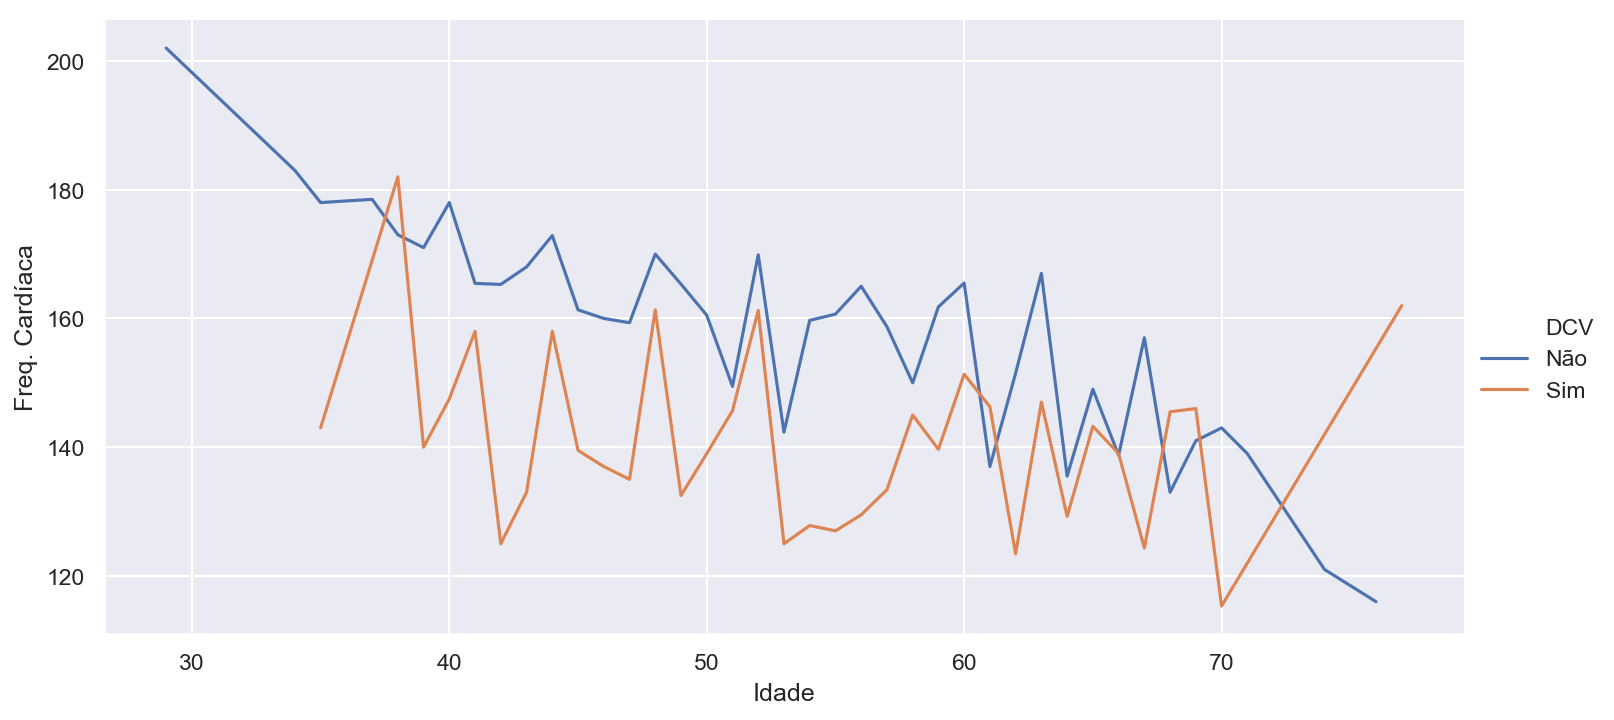
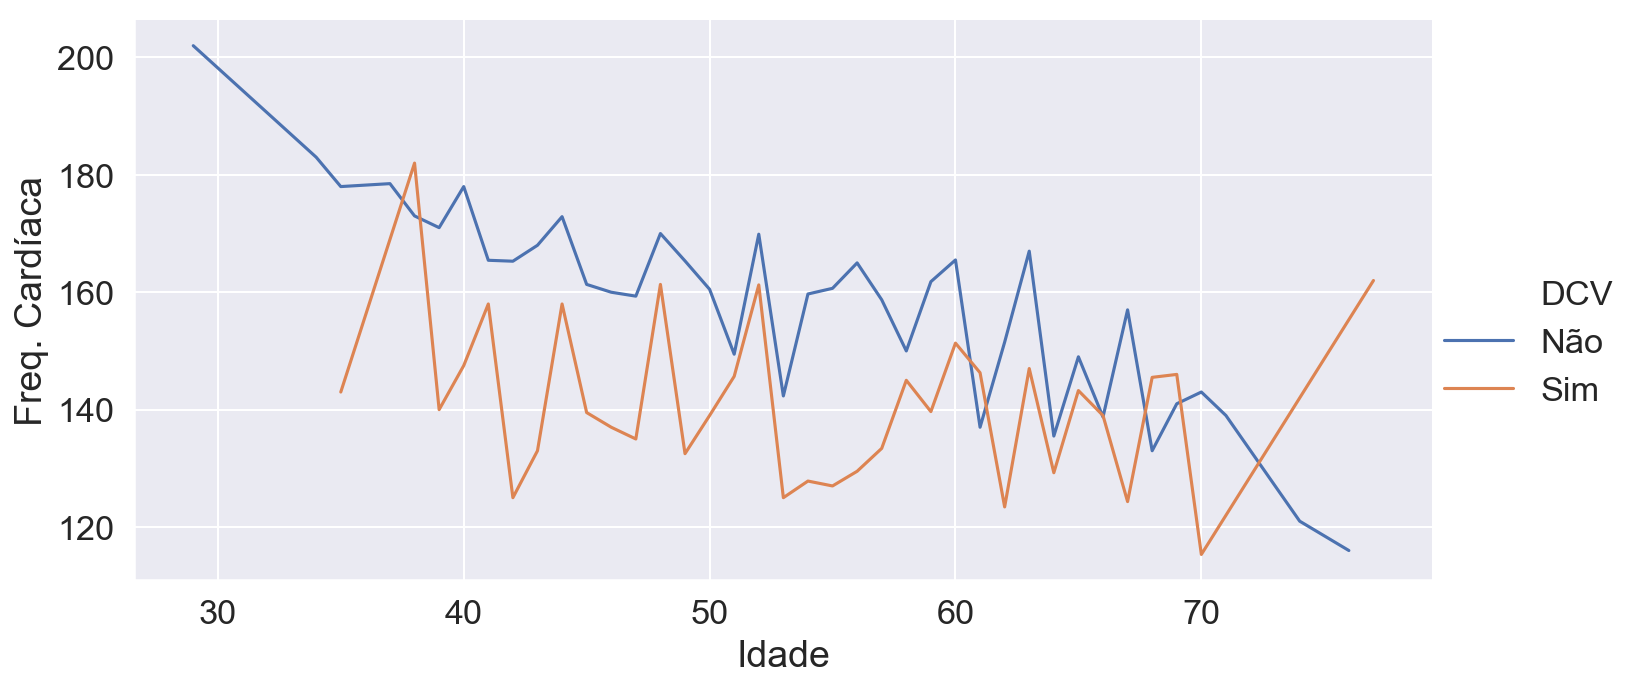
Capstone Report and other resources

diff --git a/ML - TCC - Clusters/tcc_ml_analysis/classifier.py b/ML - TCC - Clusters/tcc_ml_analysis/classifier.py
@@ -54,9 +54,10 @@ sns.set(color_codes=True)
 fig = plt.figure(figsize=(15, 9))
 sns.set(font_scale=1.5)
 
-sns.scatterplot(x="Idade", y="Colesterol", hue="DCV", style="DCV", data=data2, s=100)
-plt.axvline(55, color="k", linestyle="--", linewidth=1)
-plt.axhline(200, color="k", linestyle="--", linewidth=1)
+#sns.scatterplot(x="Idade", y="Colesterol", hue="DCV", style="DCV", data=data2, s=100)
+#plt.axvline(55, color="k", linestyle="--", linewidth=1)
+#plt.axhline(200, color="k", linestyle="--", linewidth=1)
+
 # Visual Analysis
 # Preprocessing TODO
 #min_max_scaler = MinMaxScaler()
@@ -67,32 +68,12 @@ plt.axhline(200, color="k", linestyle="--", linewidth=1)
 #df_normalized = pd.DataFrame(train_scaled)
 #df_normalized2 = pd.DataFrame(test_scaled)
 
+features_continuous=["age", "restbp", "chol", "thalach", "oldpeak", "num"]
 
+sns.boxplot(data=data2[features_continuous])
 
 
 # Example of a confusion matrix in Python
 #results = confusion_matrix(y_test, predictions)
 #plt.figure(figsize = (10,7))
 
-#f = sns.heatmap(cm, annot=True)
-
-#plt.xlabel("Predição")
-#plt.ylabel("Valor Real")
-#plt.show(f)
-# Correlation and Pairplot
-#fig = plt.figure(figsize=(20, 20))
-#ax = plt.gca()
-# sns.heatmap(df.corr(), annot=True)
-# sns.pairplot(df)
-
-
-# Standardize
-#scaler = StandardScaler()
-#c = scaler.fit_transform(df[['chol', 'age']])
-#d = pd.DataFrame(c, columns=['chol', 'age'])
-#sns.distplot(d['chol'])
-#x_array = np.array(df['age'])
-#xx = normalize([x_array])
-
-#scaler = StandardScaler()
-#Xa = scaler.fit_transform(features)

diff --git a/ML - TCC - Clusters/tcc_ml_analysis/visual_analysis.py b/ML - TCC - Clusters/tcc_ml_analysis/visual_analysis.py
@@ -38,8 +38,10 @@ def exportPlots(data, flag):
 def exportAttributeAnalysis(data):
     fig = plt.figure(figsize=(15, 9))
     # Thalach Attribute vs Age with respect to Heart Disease
+    sns.set(font_scale=1.5)
     fig = sns.relplot(x="Idade", y="Freq. Cardíaca", kind="line", data=data, ci=None, hue="DCV", aspect=2)
     fig.savefig(setPlotFolder("Freq_Idade"))
+    plt.axhline(140, color="k", linestyle="--", linewidth=1)
 
     # Scatter to explore dataset
     #sns.scatterplot(x="Idade", y="Colesterol", hue="DCV", style="DCV", data=data, s=100)
